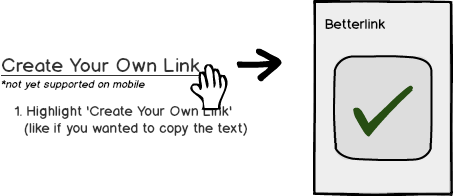
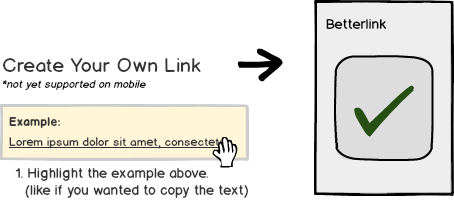
clarify 'Create Link' tutorial with designated line
Instead of indicating users should highlight the header of the section,
create an example line that stands out from the rest.

Also update the tutorial image to match.

diff --git a/get-started.html b/get-started.html
@@ -115,8 +115,12 @@
             <h2 class="section-heading">Create Your Own Link<br/>
               <span class="section-heading-note">*not yet supported on mobile</span>
             </h2>
+            <div class="well well-sm message-block">
+              <b>Example:</b>
+              <p>Anywhere on the web, Betterlink lets you share and save exactly what you want.</p>
+            </div>
             <ol class="lead">
-              <li>Highlight 'Create Your Own Link' above.
+              <li>Highlight the example above.
                 <br/>(like if you wanted to copy the text)
               </li>
               <li>Hover over your selection. Click and hold.
